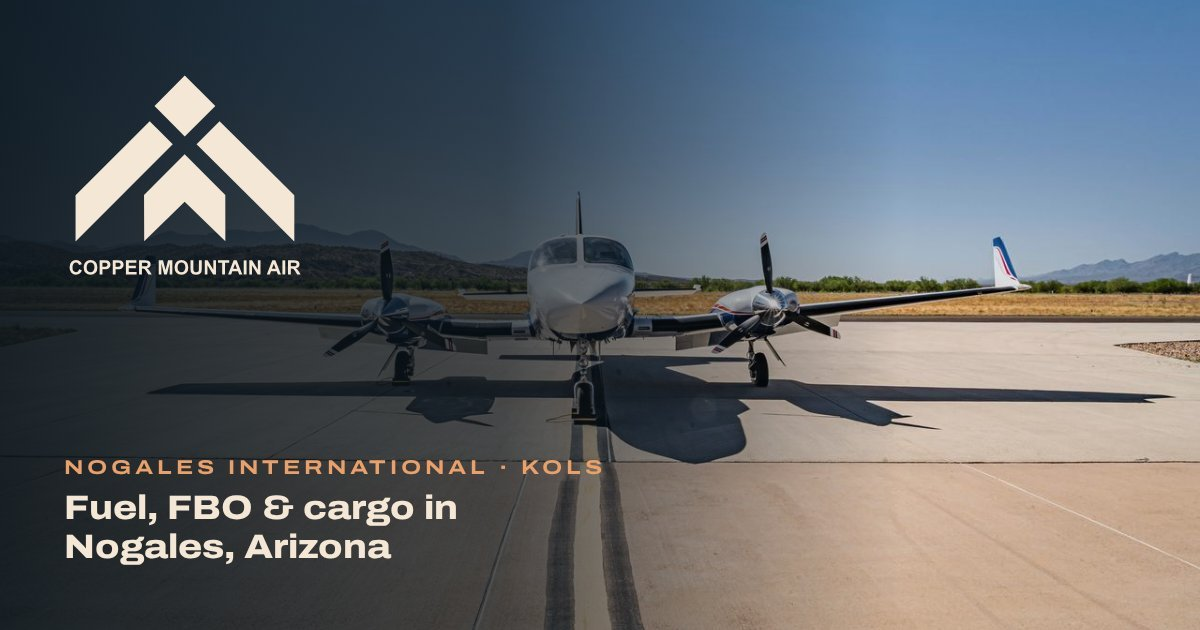
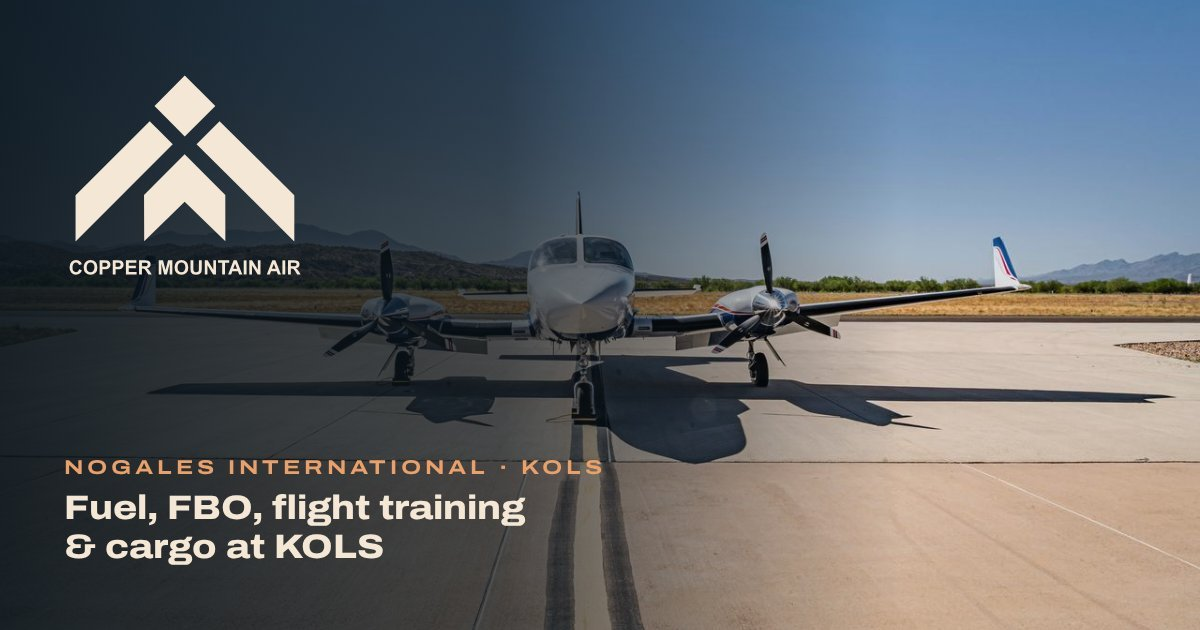
Publish production site for coppermountainair.com
Drop the preview banner and noindex, set SITE_URL to the custom domain, allow crawlers while still blocking /preview/, write the Pages CNAME, and update the share card to include flight training. Approved by Seth on 2026-11-19.

Changed region(s): [[0.0617, 0.7841, 0.4625, 0.9048]]

diff --git a/tools/build.py b/tools/build.py
@@ -1,6 +1,6 @@
 """Build the Copper Mountain Air static site.  Run: python3 tools/build.py
-Pages are written to the repo root (GitHub Pages serves the root). Relative links only,
-so the site works under /cma-site/ on github.io and later on a custom domain."""
+Pages are written to _site/ (GitHub Actions deploys that folder). Relative links only,
+so the site works at the domain root on coppermountainair.com."""
 import os, re, json, html, shutil, sys
 import markdown
 
@@ -8,8 +8,8 @@ ROOT = os.path.abspath(os.path.join(os.path.dirname(__file__), ".."))
 OUT = os.path.join(ROOT, "_site")                       # build output (deployed by GitHub Actions)
 # --drafts renders unpublished posts too, for LOCAL review only. The deploy workflow never passes it.
 SHOW_DRAFTS = "--drafts" in sys.argv
-SITE_URL = "https://millerseth1.github.io/cma-site/"   # change when the custom domain goes live
-PREVIEW = True                                          # True = noindex + preview banner
+SITE_URL = "https://coppermountainair.com/"
+PREVIEW = False                                         # True = noindex + preview banner
 CONTACT_TO = "operations@coppermountainair.com"
 # Verified public contact facts (sources recorded in the commit / site copy notes):
 # Address & phone: Seth's email signature; FAA airport manager record and CMA's AirNav FBO listing; Santa Cruz County airport page.
@@ -933,8 +933,11 @@ def main():
     sm.append("</urlset>")
     open(os.path.join(OUT, "sitemap.xml"), "w").write("\n".join(sm) + "\n")
     robots = ("# PREVIEW: block all crawlers until launch. Remove the Disallow line at launch.\nUser-agent: *\nDisallow: /\n" if PREVIEW
-              else "User-agent: *\nAllow: /\n") + f"\nSitemap: {SITE_URL}sitemap.xml\n"
+              else "User-agent: *\nAllow: /\nDisallow: /preview/\n") + f"\nSitemap: {SITE_URL}sitemap.xml\n"
     open(os.path.join(OUT, "robots.txt"), "w").write(robots)
+    # Custom domain for GitHub Pages (workflow deploy uses the artifact, not the repo root).
+    if not PREVIEW:
+        open(os.path.join(OUT, "CNAME"), "w").write("coppermountainair.com\n")
     print("built", len(PAGES), "pages")
 
 if __name__ == "__main__":

diff --git a/tools/make_png.py b/tools/make_png.py
@@ -16,9 +16,9 @@ body{{margin:0;width:1200px;height:630px;position:relative;overflow:hidden;backg
 .sh{{position:absolute;inset:0;background:linear-gradient(90deg,rgba(10,20,27,.92) 0%,rgba(10,20,27,.7) 42%,rgba(10,20,27,.05) 75%)}}
 .t{{position:absolute;left:64px;top:70px;bottom:64px;display:flex;flex-direction:column;justify-content:space-between;color:#f4e7d6}}
 .e{{font:700 20px A;font-stretch:125%;letter-spacing:.2em;color:#e9a06a;text-transform:uppercase}}
-p{{font:800 34px/1.15 A;font-stretch:115%;margin:10px 0 0;max-width:520px}}
+p{{font:800 34px/1.15 A;font-stretch:115%;margin:10px 0 0;max-width:560px}}
 </style></head><body><div class="bg"></div><div class="sh"></div>
-<div class="t"><img src="{logo}" style="height:210px;width:auto;align-self:flex-start"><div><div class="e">Nogales International · KOLS</div><p>Fuel, FBO &amp; cargo in Nogales, Arizona</p></div></div></body></html>"""
+<div class="t"><img src="{logo}" style="height:210px;width:auto;align-self:flex-start"><div><div class="e">Nogales International · KOLS</div><p>Fuel, FBO, flight training<br>&amp; cargo at KOLS</p></div></div></body></html>"""
 with sync_playwright() as pw:
     b = pw.chromium.launch()
     pg = b.new_page(viewport={"width": 1200, "height": 630}); pg.set_content(og); pg.wait_for_timeout(500)

diff --git a/README.md b/README.md
@@ -1,10 +1,10 @@
-# Copper Mountain Air website (preview)
+# Copper Mountain Air website
 
 Static site for Copper Mountain Air, LLC at Nogales International Airport (KOLS), Nogales, AZ.
 
-- **Preview:** https://millerseth1.github.io/cma-site/ (noindex, robots Disallow — preview only)
-- **Hosting:** GitHub Pages (free), built by GitHub Actions from `tools/build.py` on every push to `main`.
-- **No custom domain yet.** There is intentionally no `CNAME` file. Do not add one, and do not change DNS: `coppermountainair.com` carries Microsoft 365 email (MX, autodiscover, SPF/DKIM/DMARC and related records). The domain switch waits for Seth's approval.
+- **Live site:** https://coppermountainair.com/
+- **Hosting:** GitHub Pages, built by GitHub Actions from `tools/build.py` on every push to `main`.
+- **DNS caution:** Point only the website records (apex `A`/`AAAA` and `www`) at GitHub Pages. Leave every Microsoft 365 email record untouched: MX, `autodiscover` CNAME, SPF/DKIM/DMARC TXT, `lyncdiscover`/`sip` CNAMEs, and related SRV records.
 
 ## Layout
 
@@ -32,10 +32,11 @@ Public contact details (address, phone, hours, after-hours fueling, amenities an
 
 Note: this repo is public (required for free GitHub Pages), so draft Markdown is readable on GitHub even though it is not on the site.
 
-## Going live later (needs Seth's approval)
+## Production settings
 
-1. Set `PREVIEW = False` and `SITE_URL` to the real domain in `tools/build.py` (removes noindex, opens robots.txt).
-2. Add the custom domain in repo Settings → Pages, and add **only** the website records at the DNS host (an `A`/`CNAME` for `www` and the apex). Leave every Microsoft 365 record (MX, autodiscover CNAME, SPF TXT, DKIM selector CNAMEs, DMARC, any `msoid`/`lyncdiscover`/SRV records) untouched.
+`tools/build.py` is set to production: `PREVIEW = False` and `SITE_URL = "https://coppermountainair.com/"`. Public pages are indexable; `robots.txt` allows crawlers and disallows `/preview/`. The build writes `_site/CNAME` with `coppermountainair.com` for GitHub Pages.
+
+To temporarily return to a noindex preview build, set `PREVIEW = True` and restore `SITE_URL` to the github.io preview URL. Do not change Microsoft 365 DNS records when updating website records at GoDaddy.
 
 ## Unlisted preview pages
 
